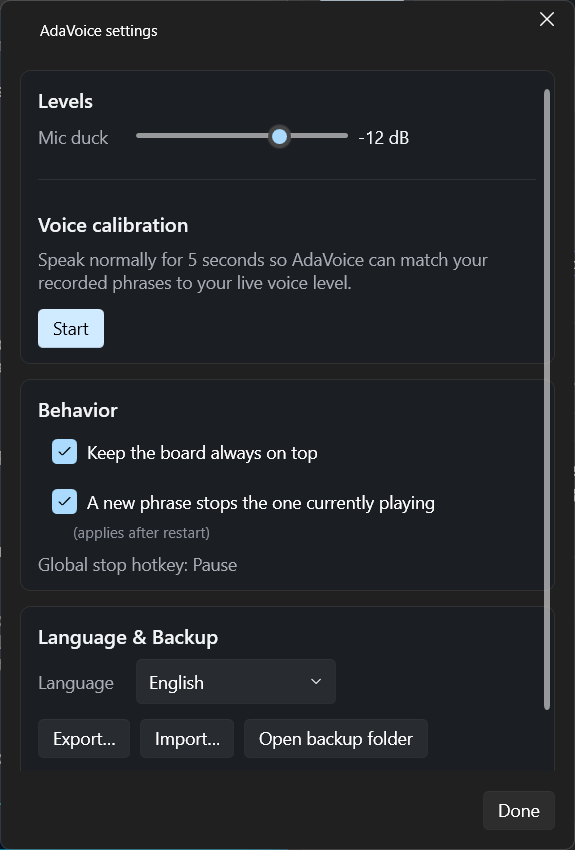
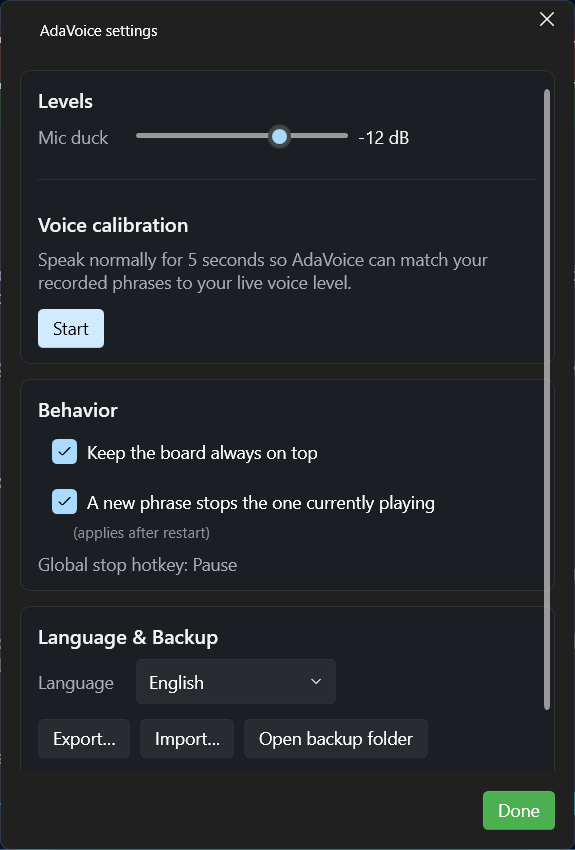
style: make SettingsWindow Done button Success (green) per owner feedback

Changed region(s): [[0.8278, 0.9176, 0.9757, 0.9788], [0.9757, 0.9788, 1.0, 1.0]]

diff --git a/src/AdaVoice.App/SettingsWindow.xaml b/src/AdaVoice.App/SettingsWindow.xaml
@@ -92,7 +92,7 @@
         </StackPanel>
         </ScrollViewer>
 
-        <ui:Button Grid.Row="1" Content="Done" Appearance="Secondary" IsCancel="True" HorizontalAlignment="Right" Margin="{StaticResource Space.ButtonRow}" />
+        <ui:Button Grid.Row="1" Content="Done" Appearance="Success" IsCancel="True" HorizontalAlignment="Right" Margin="{StaticResource Space.ButtonRow}" />
         </Grid>
     </Grid>
 </ui:FluentWindow>
